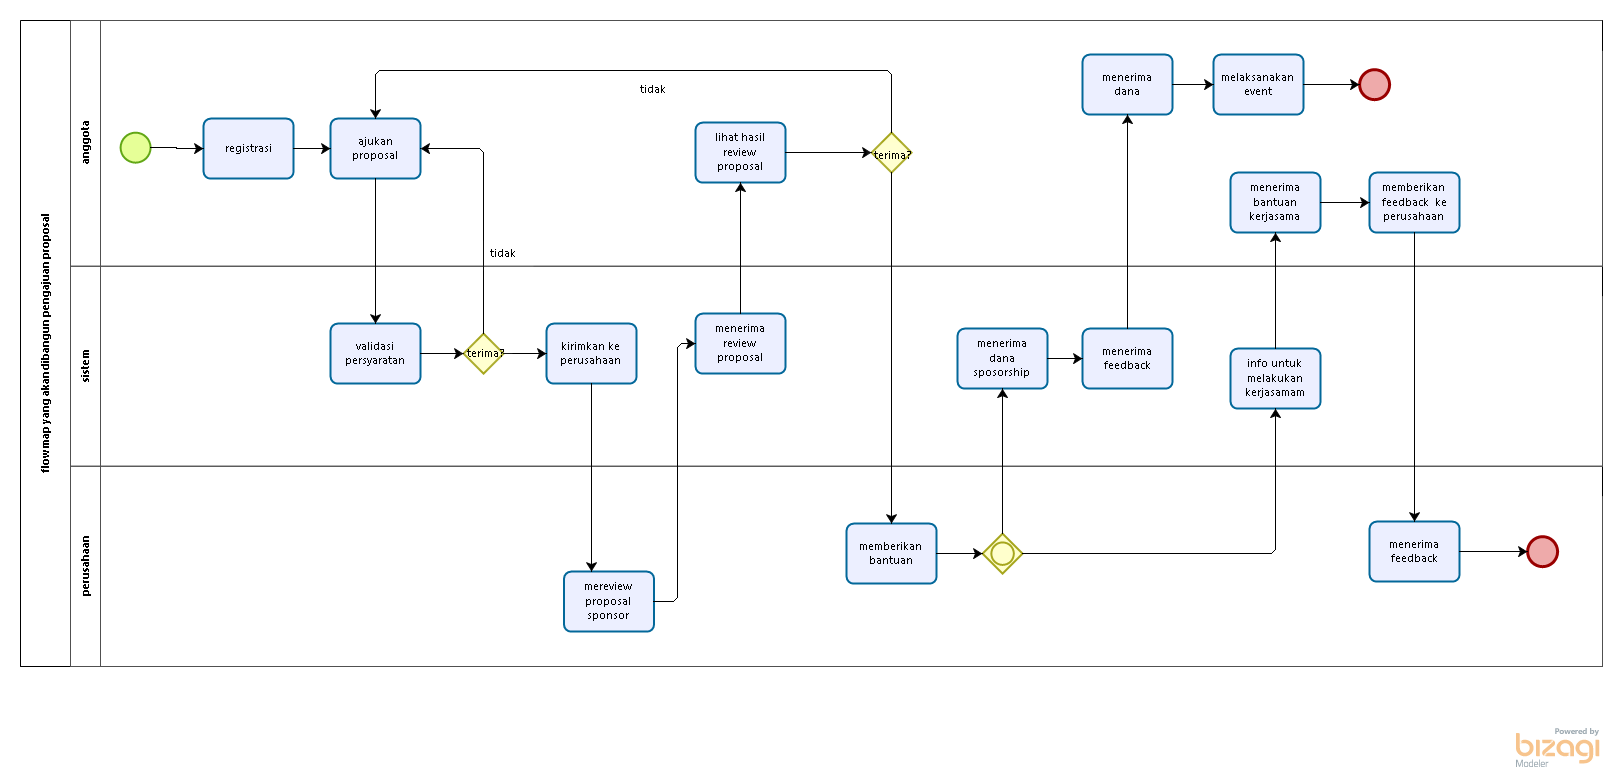
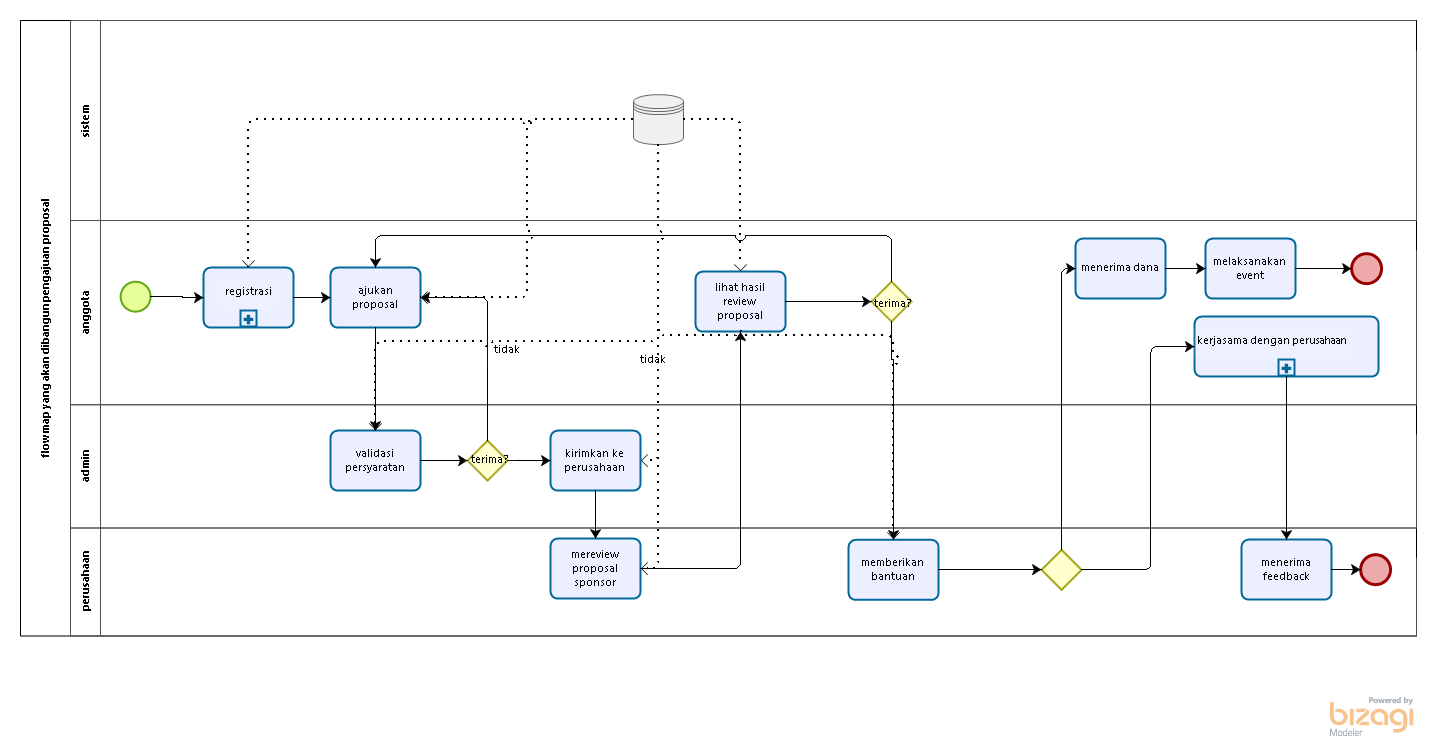
commit sodaraku

diff --git a/libs/js/json/configuration.json.js b/libs/js/json/configuration.json.js
@@ -1,1 +1,1 @@
-Bizagi.AppModel = {"personalized":false,"userLogoName":"\\libs\\img\\biz-ex-logo.png","bizagiUrl":"http://www.bizagi.com","productName":"Bizagi Modeler","modelName":"flowmap proses yang akan dibangun","publishDate":"11/21/2016 7:43:57 AM","pages":[{"id":"387a8af9-7a3a-44de-83a8-225b836771a6","name":"Diagram 1","version":"1.0","author":"gentu","image":"files\\diagrams\\Diagram_1.png","isSubprocessPage":false,"elements":[{"id":"cde52953-2956-4d07-aba3-8e478f4c84ff","name":"flowmap yang akan dibangun pengajuan proposal","elementImage":"files\\bpmnElements\\Participant.png","imageBounds":{"points":[{"x":20.0,"y":20.0}],"radius":0.0,"height":646.0,"width":50.0,"shape":"rect"},"elementType":"Participant","properties":[],"pageElements":[{"id":"ec4c4310-ce89-453f-9d37-87c7aa8a32fe","name":"Event","elementImage":"files\\bpmnElements\\NoneStart.png","imageBounds":{"points":[{"x":120.0,"y":132.0}],"radius":15.0,"height":30.0,"width":30.0,"shape":"circle"},"elementType":"NoneStart"},{"id":"9e509c86-1bab-4a95-b629-b56f2096fc51","name":"registrasi","elementImage":"files\\bpmnElements\\AbstractTask.png","imageBounds":{"points":[{"x":203.0,"y":118.0}],"radius":0.0,"height":60.0,"width":90.0,"shape":"rect"},"elementType":"AbstractTask","properties":[]},{"id":"448a5ef8-64fc-4acf-ab07-fa3c857338f4","name":"ajukan proposal","elementImage":"files\\bpmnElements\\AbstractTask.png","imageBounds":{"points":[{"x":330.0,"y":118.0}],"radius":0.0,"height":60.0,"width":90.0,"shape":"rect"},"elementType":"AbstractTask","properties":[]},{"id":"92528b22-68dd-4aa8-9336-0970370f5010","name":"validasi persyaratan ","elementImage":"files\\bpmnElements\\AbstractTask.png","imageBounds":{"points":[{"x":330.0,"y":323.0}],"radius":0.0,"height":60.0,"width":90.0,"shape":"rect"},"elementType":"AbstractTask","properties":[]},{"id":"62843e2d-9132-4c28-a3b5-57c490bd2336","name":"terima?","elementImage":"files\\bpmnElements\\ExclusiveGateway.png","imageBounds":{"points":[{"x":463.0,"y":333.0}],"radius":0.0,"height":40.0,"width":40.0,"shape":"poly"},"elementType":"ExclusiveGateway","properties":[],"pageElements":[{"name":"tidak","elementType":"SequenceFlow","properties":[]},{"name":"kirimkan ke perusahaan","elementType":"SequenceFlow","properties":[]}]},{"id":"8cb3f22f-34ab-4978-9421-076a330a6b16","name":"kirimkan ke perusahaan","elementImage":"files\\bpmnElements\\AbstractTask.png","imageBounds":{"points":[{"x":546.0,"y":323.0}],"radius":0.0,"height":60.0,"width":90.0,"shape":"rect"},"elementType":"AbstractTask","properties":[]},{"id":"26340f4c-524a-4a69-8a60-f1f2b97a1966","name":"mereview proposal sponsor ","elementImage":"files\\bpmnElements\\AbstractTask.png","imageBounds":{"points":[{"x":563.4,"y":571.0}],"radius":0.0,"height":60.0,"width":90.0,"shape":"rect"},"elementType":"AbstractTask","properties":[]},{"id":"c7b4fb59-57cb-436d-a5dc-e50aa3b9ed1f","name":"menerima review proposal","elementImage":"files\\bpmnElements\\AbstractTask.png","imageBounds":{"points":[{"x":695.0,"y":313.0}],"radius":0.0,"height":60.0,"width":90.0,"shape":"rect"},"elementType":"AbstractTask","properties":[]},{"id":"ebe8f85c-bce6-4be6-a7d5-0ed7ab79053f","name":"lihat hasil review proposal","elementImage":"files\\bpmnElements\\AbstractTask.png","imageBounds":{"points":[{"x":695.0,"y":122.0}],"radius":0.0,"height":60.0,"width":90.0,"shape":"rect"},"elementType":"AbstractTask","properties":[]},{"id":"7e82a033-dd97-4ae3-8e98-1e74558a550b","name":"terima?","elementImage":"files\\bpmnElements\\ExclusiveGateway.png","imageBounds":{"points":[{"x":871.0,"y":132.0}],"radius":0.0,"height":40.0,"width":40.0,"shape":"poly"},"elementType":"ExclusiveGateway","properties":[],"pageElements":[{"name":"tidak","elementType":"SequenceFlow","properties":[]},{"name":"memberikan bantuan","elementType":"SequenceFlow","properties":[]}]},{"id":"38c4776d-c18d-402f-9234-e9001001e618","name":"memberikan bantuan","elementImage":"files\\bpmnElements\\AbstractTask.png","imageBounds":{"points":[{"x":846.0,"y":523.0}],"radius":0.0,"height":60.0,"width":90.0,"shape":"rect"},"elementType":"AbstractTask","properties":[]},{"id":"ea685e7d-762f-4741-9202-49996e7dccd4","name":"Gateway","elementImage":"files\\bpmnElements\\InclusiveGateway.png","imageBounds":{"points":[{"x":982.0,"y":533.0}],"radius":0.0,"height":40.0,"width":40.0,"shape":"poly"},"elementType":"InclusiveGateway","properties":[],"pageElements":[{"name":"menerima dana sposorship","elementType":"SequenceFlow","properties":[]},{"name":"info untuk melakukan kerjasamam","elementType":"SequenceFlow","properties":[]}]},{"id":"bade56e8-0191-4ace-b328-85f419b38032","name":"menerima dana sposorship","elementImage":"files\\bpmnElements\\AbstractTask.png","imageBounds":{"points":[{"x":957.0,"y":328.0}],"radius":0.0,"height":60.0,"width":90.0,"shape":"rect"},"elementType":"AbstractTask","properties":[]},{"id":"c3a0d265-3e80-4862-95dd-4146ea6334ba","name":"menerima feedback ","elementImage":"files\\bpmnElements\\AbstractTask.png","imageBounds":{"points":[{"x":1082.0,"y":328.0}],"radius":0.0,"height":60.0,"width":90.0,"shape":"rect"},"elementType":"AbstractTask","properties":[]},{"id":"94c32ea4-5eef-4e13-a902-f50aa9fece12","name":"menerima dana","elementImage":"files\\bpmnElements\\AbstractTask.png","imageBounds":{"points":[{"x":1082.0,"y":54.0}],"radius":0.0,"height":60.0,"width":90.0,"shape":"rect"},"elementType":"AbstractTask","properties":[]},{"id":"3e30a410-62fd-4642-9cc1-bbadb7290501","name":"melaksanakan event","elementImage":"files\\bpmnElements\\AbstractTask.png","imageBounds":{"points":[{"x":1213.0,"y":54.0}],"radius":0.0,"height":60.0,"width":90.0,"shape":"rect"},"elementType":"AbstractTask","properties":[]},{"id":"a35ca725-93ac-4a25-ad2f-9606acc2321e","name":"Event","elementImage":"files\\bpmnElements\\NoneEnd.png","imageBounds":{"points":[{"x":1359.0,"y":69.0}],"radius":15.0,"height":30.0,"width":30.0,"shape":"circle"},"elementType":"NoneEnd"},{"id":"915ca9a3-8b9e-4570-bbb9-544bcf897cb9","name":"info untuk melakukan kerjasamam","elementImage":"files\\bpmnElements\\AbstractTask.png","imageBounds":{"points":[{"x":1230.0,"y":348.0}],"radius":0.0,"height":60.0,"width":90.0,"shape":"rect"},"elementType":"AbstractTask","properties":[]},{"id":"253b5cb9-770f-4db9-995c-06eb984babdf","name":"menerima bantuan kerjasama","elementImage":"files\\bpmnElements\\AbstractTask.png","imageBounds":{"points":[{"x":1230.0,"y":172.0}],"radius":0.0,"height":60.0,"width":90.0,"shape":"rect"},"elementType":"AbstractTask","properties":[]},{"id":"c83c5af3-3905-47f1-8819-b0d5e49423bb","name":"memberikan feedback  ke perusahaan","elementImage":"files\\bpmnElements\\AbstractTask.png","imageBounds":{"points":[{"x":1369.0,"y":172.0}],"radius":0.0,"height":60.0,"width":90.0,"shape":"rect"},"elementType":"AbstractTask","properties":[]},{"id":"24a4c256-4fbd-4e74-a211-4c7c12b7e720","name":"menerima feedback","elementImage":"files\\bpmnElements\\AbstractTask.png","imageBounds":{"points":[{"x":1369.0,"y":521.0}],"radius":0.0,"height":60.0,"width":90.0,"shape":"rect"},"elementType":"AbstractTask","properties":[]},{"id":"c2323422-e2ec-4cb6-897c-cb50e6631ef7","name":"Event","elementImage":"files\\bpmnElements\\NoneEnd.png","imageBounds":{"points":[{"x":1527.0,"y":536.0}],"radius":15.0,"height":30.0,"width":30.0,"shape":"circle"},"elementType":"NoneEnd"},{"id":"9b19114d-6c4d-41eb-94e5-4bc23b8dd305","name":"anggota ","elementImage":"files\\bpmnElements\\Lane.png","imageBounds":{"points":[{"x":70.0,"y":20.0}],"radius":0.0,"height":245.7,"width":30.0,"shape":"rect"},"elementType":"Lane"},{"id":"118933fe-b046-45a1-b4ab-b8d358238c36","name":"sistem","elementImage":"files\\bpmnElements\\Lane.png","imageBounds":{"points":[{"x":70.0,"y":265.7}],"radius":0.0,"height":200.0,"width":30.0,"shape":"rect"},"elementType":"Lane"},{"id":"a0f3806e-6fca-490a-9bbb-3665b06c6aa2","name":"perusahaan","elementImage":"files\\bpmnElements\\Lane.png","imageBounds":{"points":[{"x":70.0,"y":465.7}],"radius":0.0,"height":200.299988,"width":30.0,"shape":"rect"},"elementType":"Lane"}]}]}],"texts":{"tableOfContents":"Table of Contents","pageNumber":"Page","pageNumberLabelOf":"of","version":"Version","author":"Author","description":"Description","mainPool":"Main Process","mainPoolDescription":"Main Process Description","processDiagrams":"Process Diagrams","processElements":"Process Elements","elements":"Process Elements","defaultElementName":"Element","performers":"Performers","connectors":"Connectors","connector":"Connector","home":"Home","search":"Search","goToParentProcess":"<< Go to Parent Process","visitBizagi":"Visit bizagi.com","contains":"Contains {0} Sub-Processes","showAll":"Show all","fullScreen":"Full screen","zoomIn":"Zoom In","zoomOut":"Zoom Out","close":"Close","menu":"Menu: ","errorPage":"Error when visualizing page","process":"Process","subProcess":"Published Sub-Processes","contain":"Contains","checkAttributes":"Check attributes","checkOverview":"Check overview","unavailableResource":"Unavailable resource","localResource":"Resource can be accessed locally","performer":"Performer","linktoimage":"Link to Image","presentationAction":"Presentation Actions","searchGlobal":"Search all","searchLocal":"Search in this process","searchResults":"No Results Found","titlePage":"Start","emptyElement":"This element has not yet been documented","unsupported":"Your browser does not support content displayed by this page. <br> We recommend you upgrading your browser.","details":"Details","expand":"Expand","mainPoolProperties":"Main Process properties","cannotVisualize":"The page cannot be displayed","resourceNotFound":"The requested resource was not found:","applyTheme":"Applying new theme"},"searchMap":[{"containerId":"387a8af9-7a3a-44de-83a8-225b836771a6","containerName":"Diagram 1","isSubprocess":false,"elements":[{"id":"cde52953-2956-4d07-aba3-8e478f4c84ff","value":"flowmap yang akan dibangun pengajuan proposal"},{"id":"9b19114d-6c4d-41eb-94e5-4bc23b8dd305","value":"anggota "},{"id":"118933fe-b046-45a1-b4ab-b8d358238c36","value":"sistem"},{"id":"a0f3806e-6fca-490a-9bbb-3665b06c6aa2","value":"perusahaan"},{"id":"ec4c4310-ce89-453f-9d37-87c7aa8a32fe","value":""},{"id":"9e509c86-1bab-4a95-b629-b56f2096fc51","value":"registrasi"},{"id":"448a5ef8-64fc-4acf-ab07-fa3c857338f4","value":"ajukan proposal"},{"id":"92528b22-68dd-4aa8-9336-0970370f5010","value":"validasi persyaratan "},{"id":"62843e2d-9132-4c28-a3b5-57c490bd2336","value":"terima?"},{"id":"8cb3f22f-34ab-4978-9421-076a330a6b16","value":"kirimkan ke perusahaan"},{"id":"26340f4c-524a-4a69-8a60-f1f2b97a1966","value":"mereview proposal sponsor "},{"id":"c7b4fb59-57cb-436d-a5dc-e50aa3b9ed1f","value":"menerima review proposal"},{"id":"ebe8f85c-bce6-4be6-a7d5-0ed7ab79053f","value":"lihat hasil review proposal"},{"id":"7e82a033-dd97-4ae3-8e98-1e74558a550b","value":"terima?"},{"id":"38c4776d-c18d-402f-9234-e9001001e618","value":"memberikan bantuan"},{"id":"ea685e7d-762f-4741-9202-49996e7dccd4","value":""},{"id":"bade56e8-0191-4ace-b328-85f419b38032","value":"menerima dana sposorship"},{"id":"c3a0d265-3e80-4862-95dd-4146ea6334ba","value":"menerima feedback "},{"id":"94c32ea4-5eef-4e13-a902-f50aa9fece12","value":"menerima dana"},{"id":"3e30a410-62fd-4642-9cc1-bbadb7290501","value":"melaksanakan event"},{"id":"a35ca725-93ac-4a25-ad2f-9606acc2321e","value":""},{"id":"915ca9a3-8b9e-4570-bbb9-544bcf897cb9","value":"info untuk melakukan kerjasamam"},{"id":"253b5cb9-770f-4db9-995c-06eb984babdf","value":"menerima bantuan kerjasama"},{"id":"c83c5af3-3905-47f1-8819-b0d5e49423bb","value":"memberikan feedback  ke perusahaan"},{"id":"24a4c256-4fbd-4e74-a211-4c7c12b7e720","value":"menerima feedback"},{"id":"c2323422-e2ec-4cb6-897c-cb50e6631ef7","value":""}]}]}
+Bizagi.AppModel = {"personalized":false,"userLogoName":"\\libs\\img\\biz-ex-logo.png","bizagiUrl":"http://www.bizagi.com","productName":"Bizagi Modeler","modelName":"proses yang akan dibangun","publishDate":"11/25/2016 10:07:00 AM","pages":[{"id":"ccbdcc8c-2812-4323-838a-d069b4d89ad2","name":"Diagram 1","version":"1.0","author":"gentu","image":"files\\diagrams\\Diagram_1.png","isSubprocessPage":false,"elements":[{"id":"d221f7c9-1383-4faa-83ac-d100b7008c96","name":"flowmap yang akan dibangun pengajuan proposal","elementImage":"files\\bpmnElements\\Participant.png","imageBounds":{"points":[{"x":20.0,"y":20.0}],"radius":0.0,"height":615.4,"width":50.0,"shape":"rect"},"elementType":"Participant","properties":[],"pageElements":[{"id":"f5815bbd-9054-4268-a4ca-d92db74e2088","name":"Event","elementImage":"files\\bpmnElements\\NoneStart.png","imageBounds":{"points":[{"x":120.0,"y":281.0}],"radius":15.0,"height":30.0,"width":30.0,"shape":"circle"},"elementType":"NoneStart"},{"id":"4c76ea07-1749-4494-b9e3-4e2daeab43e0","name":"registrasi","elementImage":"files\\bpmnElements\\SubProcess.png","imageBounds":{"points":[{"x":203.0,"y":267.0}],"radius":0.0,"height":60.0,"width":90.0,"shape":"rect"},"elementType":"SubProcess","properties":[]},{"id":"c2900cbd-3fdd-4a3c-ac1d-0613aff644ca","name":"ajukan proposal","elementImage":"files\\bpmnElements\\AbstractTask.png","imageBounds":{"points":[{"x":330.0,"y":267.0}],"radius":0.0,"height":60.0,"width":90.0,"shape":"rect"},"elementType":"AbstractTask","properties":[]},{"id":"aff98863-e146-4973-ad99-9f80bde32b73","name":"validasi persyaratan ","elementImage":"files\\bpmnElements\\AbstractTask.png","imageBounds":{"points":[{"x":330.0,"y":430.0}],"radius":0.0,"height":60.0,"width":90.0,"shape":"rect"},"elementType":"AbstractTask","properties":[]},{"id":"8ef784d7-2e91-4524-8a19-76008c755ad7","name":"terima?","elementImage":"files\\bpmnElements\\ExclusiveGateway.png","imageBounds":{"points":[{"x":467.0,"y":440.0}],"radius":0.0,"height":40.0,"width":40.0,"shape":"poly"},"elementType":"ExclusiveGateway","properties":[],"pageElements":[{"name":"kirimkan ke perusahaan","elementType":"SequenceFlow","properties":[]},{"name":"tidak","elementType":"SequenceFlow","properties":[]}]},{"id":"91461c29-59bf-4664-b06f-9466a821db04","name":"kirimkan ke perusahaan","elementImage":"files\\bpmnElements\\AbstractTask.png","imageBounds":{"points":[{"x":550.0,"y":430.0}],"radius":0.0,"height":60.0,"width":90.0,"shape":"rect"},"elementType":"AbstractTask","properties":[]},{"id":"71c2cfa4-aa8f-40c8-b830-941e57e64ce4","name":"mereview proposal sponsor ","elementImage":"files\\bpmnElements\\AbstractTask.png","imageBounds":{"points":[{"x":550.0,"y":538.0}],"radius":0.0,"height":60.0,"width":90.0,"shape":"rect"},"elementType":"AbstractTask","properties":[]},{"id":"d4457ec7-d47f-40fd-86f9-576888cf2c2c","name":"lihat hasil review proposal","elementImage":"files\\bpmnElements\\AbstractTask.png","imageBounds":{"points":[{"x":695.0,"y":271.0}],"radius":0.0,"height":60.0,"width":90.0,"shape":"rect"},"elementType":"AbstractTask","properties":[]},{"id":"0a16fcf8-24b4-4159-99c9-e77eaedc0ff8","name":"terima?","elementImage":"files\\bpmnElements\\ExclusiveGateway.png","imageBounds":{"points":[{"x":871.0,"y":281.0}],"radius":0.0,"height":40.0,"width":40.0,"shape":"poly"},"elementType":"ExclusiveGateway","properties":[],"pageElements":[{"name":"tidak","elementType":"SequenceFlow","properties":[]},{"name":"memberikan bantuan","elementType":"SequenceFlow","properties":[]}]},{"id":"f902b784-f0eb-4994-98af-d829011ffb8d","name":"memberikan bantuan","elementImage":"files\\bpmnElements\\AbstractTask.png","imageBounds":{"points":[{"x":848.0,"y":539.2}],"radius":0.0,"height":60.0,"width":90.0,"shape":"rect"},"elementType":"AbstractTask","properties":[]},{"id":"5bc10d08-84bd-40b3-ac83-a865f2870e35","name":"Gateway","elementImage":"files\\bpmnElements\\ExclusiveGateway.png","imageBounds":{"points":[{"x":1041.0,"y":549.2}],"radius":0.0,"height":40.0,"width":40.0,"shape":"poly"},"elementType":"ExclusiveGateway","properties":[],"pageElements":[{"name":"menerima dana","elementType":"SequenceFlow","properties":[]},{"name":"kerjasama dengan perusahaan","elementType":"SequenceFlow","properties":[]}]},{"id":"20696b92-e2d2-474a-951a-129fce20e9e7","name":"menerima dana","elementImage":"files\\bpmnElements\\AbstractTask.png","imageBounds":{"points":[{"x":1075.0,"y":238.0}],"radius":0.0,"height":60.0,"width":90.0,"shape":"rect"},"elementType":"AbstractTask","properties":[]},{"id":"68ab0dcc-9faa-4290-9ddc-e3b5fb5454ef","name":"melaksanakan event","elementImage":"files\\bpmnElements\\AbstractTask.png","imageBounds":{"points":[{"x":1205.0,"y":238.0}],"radius":0.0,"height":60.0,"width":90.0,"shape":"rect"},"elementType":"AbstractTask","properties":[]},{"id":"1dec5466-b621-4356-a992-5da8303e9713","name":"Event","elementImage":"files\\bpmnElements\\NoneEnd.png","imageBounds":{"points":[{"x":1351.0,"y":253.0}],"radius":15.0,"height":30.0,"width":30.0,"shape":"circle"},"elementType":"NoneEnd"},{"id":"035f1d31-4dc2-46e0-8cb2-3c6767b49a89","name":"kerjasama dengan perusahaan","elementImage":"files\\bpmnElements\\SubProcess.png","imageBounds":{"points":[{"x":1194.0,"y":316.0}],"radius":0.0,"height":60.0,"width":184.0,"shape":"rect"},"elementType":"SubProcess","properties":[]},{"id":"bb2bc85e-6ddf-4f32-ac74-ba64b2f39a30","name":"menerima feedback","elementImage":"files\\bpmnElements\\AbstractTask.png","imageBounds":{"points":[{"x":1241.0,"y":539.0}],"radius":0.0,"height":60.0,"width":90.0,"shape":"rect"},"elementType":"AbstractTask","properties":[]},{"id":"996a6397-7c2c-4e59-a517-6f894e1cdfd9","name":"Event","elementImage":"files\\bpmnElements\\NoneEnd.png","imageBounds":{"points":[{"x":1360.0,"y":554.0}],"radius":15.0,"height":30.0,"width":30.0,"shape":"circle"},"elementType":"NoneEnd"},{"id":"72628562-e546-4f04-ab51-ed2199c15df9","name":"DataStore","elementImage":"files\\bpmnElements\\DataStoreReference.png","imageBounds":{"points":[{"x":633.0,"y":94.0}],"radius":0.0,"height":50.0,"width":50.0,"shape":"rect"},"elementType":"DataStoreReference","properties":[{"id":"DataStoreState","name":"State","value":"","type":"text"}]},{"id":"75216cc1-f1e2-42f4-ba76-52b36964aa93","name":"sistem","elementImage":"files\\bpmnElements\\Lane.png","imageBounds":{"points":[{"x":70.0,"y":20.0}],"radius":0.0,"height":200.0,"width":30.0,"shape":"rect"},"elementType":"Lane"},{"id":"4a94f055-e997-415c-b1f7-d94a71d7ec8f","name":"anggota ","elementImage":"files\\bpmnElements\\Lane.png","imageBounds":{"points":[{"x":70.0,"y":220.0}],"radius":0.0,"height":184.1,"width":30.0,"shape":"rect"},"elementType":"Lane"},{"id":"e362495b-aa4d-43ad-aa13-11e6688c11c3","name":"admin","elementImage":"files\\bpmnElements\\Lane.png","imageBounds":{"points":[{"x":70.0,"y":404.100037}],"radius":0.0,"height":123.3,"width":30.0,"shape":"rect"},"elementType":"Lane"},{"id":"d7abf70d-86e8-4dde-a1f6-600332a8d6a7","name":"perusahaan","elementImage":"files\\bpmnElements\\Lane.png","imageBounds":{"points":[{"x":70.0,"y":527.4}],"radius":0.0,"height":108.0,"width":30.0,"shape":"rect"},"elementType":"Lane"}]}],"subPages":[]}],"texts":{"tableOfContents":"Table of Contents","pageNumber":"Page","pageNumberLabelOf":"of","version":"Version","author":"Author","description":"Description","mainPool":"Main Process","mainPoolDescription":"Main Process Description","processDiagrams":"Process Diagrams","processElements":"Process Elements","elements":"Process Elements","defaultElementName":"Element","performers":"Performers","connectors":"Connectors","connector":"Connector","home":"Home","search":"Search","goToParentProcess":"<< Go to Parent Process","visitBizagi":"Visit bizagi.com","contains":"Contains {0} Sub-Processes","showAll":"Show all","fullScreen":"Full screen","zoomIn":"Zoom In","zoomOut":"Zoom Out","close":"Close","menu":"Menu: ","errorPage":"Error when visualizing page","process":"Process","subProcess":"Published Sub-Processes","contain":"Contains","checkAttributes":"Check attributes","checkOverview":"Check overview","unavailableResource":"Unavailable resource","localResource":"Resource can be accessed locally","performer":"Performer","linktoimage":"Link to Image","presentationAction":"Presentation Actions","searchGlobal":"Search all","searchLocal":"Search in this process","searchResults":"No Results Found","titlePage":"Start","emptyElement":"This element has not yet been documented","unsupported":"Your browser does not support content displayed by this page. <br> We recommend you upgrading your browser.","details":"Details","expand":"Expand","mainPoolProperties":"Main Process properties","cannotVisualize":"The page cannot be displayed","resourceNotFound":"The requested resource was not found:","applyTheme":"Applying new theme"},"searchMap":[{"containerId":"ccbdcc8c-2812-4323-838a-d069b4d89ad2","containerName":"Diagram 1","isSubprocess":false,"elements":[{"id":"d221f7c9-1383-4faa-83ac-d100b7008c96","value":"flowmap yang akan dibangun pengajuan proposal"},{"id":"75216cc1-f1e2-42f4-ba76-52b36964aa93","value":"sistem"},{"id":"4a94f055-e997-415c-b1f7-d94a71d7ec8f","value":"anggota "},{"id":"e362495b-aa4d-43ad-aa13-11e6688c11c3","value":"admin"},{"id":"d7abf70d-86e8-4dde-a1f6-600332a8d6a7","value":"perusahaan"},{"id":"f5815bbd-9054-4268-a4ca-d92db74e2088","value":""},{"id":"c2900cbd-3fdd-4a3c-ac1d-0613aff644ca","value":"ajukan proposal"},{"id":"aff98863-e146-4973-ad99-9f80bde32b73","value":"validasi persyaratan "},{"id":"8ef784d7-2e91-4524-8a19-76008c755ad7","value":"terima?"},{"id":"91461c29-59bf-4664-b06f-9466a821db04","value":"kirimkan ke perusahaan"},{"id":"71c2cfa4-aa8f-40c8-b830-941e57e64ce4","value":"mereview proposal sponsor "},{"id":"d4457ec7-d47f-40fd-86f9-576888cf2c2c","value":"lihat hasil review proposal"},{"id":"0a16fcf8-24b4-4159-99c9-e77eaedc0ff8","value":"terima?"},{"id":"f902b784-f0eb-4994-98af-d829011ffb8d","value":"memberikan bantuan"},{"id":"20696b92-e2d2-474a-951a-129fce20e9e7","value":"menerima dana"},{"id":"68ab0dcc-9faa-4290-9ddc-e3b5fb5454ef","value":"melaksanakan event"},{"id":"1dec5466-b621-4356-a992-5da8303e9713","value":""},{"id":"bb2bc85e-6ddf-4f32-ac74-ba64b2f39a30","value":"menerima feedback"},{"id":"996a6397-7c2c-4e59-a517-6f894e1cdfd9","value":""},{"id":"4c76ea07-1749-4494-b9e3-4e2daeab43e0","value":"registrasi"},{"id":"5bc10d08-84bd-40b3-ac83-a865f2870e35","value":""},{"id":"035f1d31-4dc2-46e0-8cb2-3c6767b49a89","value":"kerjasama dengan perusahaan"},{"id":"72628562-e546-4f04-ab51-ed2199c15df9","value":""},{"id":"a1e93b18-f0fe-46d3-afa6-c7a811f14499"},{"id":"06af7b1b-4ed0-410c-9846-a65ea9a72587"},{"id":"862f9754-b3a4-4f44-9834-f80b377d5458"},{"id":"4a813d0a-f3ed-4cfe-b77e-e22aa5a822c4"},{"id":"0b853096-5039-4933-92c4-6924eeb35abf"},{"id":"1ea6541b-1b36-4f78-8747-92f7d7e57ec2"},{"id":"cd90384a-cb5e-4984-9ec9-544618294c82"}]},{"containerId":"4c76ea07-1749-4494-b9e3-4e2daeab43e0","containerName":"registrasi","isSubprocess":true,"elements":[{"id":"27fa22e4-010e-4abc-98a9-e93652f9b130","value":""},{"id":"f792bca0-3980-422a-bf84-cb8c926d6366","value":"inputkan  identitas"},{"id":"cfd3947c-b86e-43fb-be6e-81612e58b73d","value":"validasi"},{"id":"e99012bb-dabc-470d-a93f-f6e011dce32c","value":""},{"id":"3b02b57b-2e41-434b-ba54-88fce0476b83","value":"login"},{"id":"f8ace995-6860-4fcd-a45e-f162ac9ee00c","value":""},{"id":"47e6ec1f-4425-42b9-9729-6b2bf3893c45","value":"menu utama"},{"id":"656d0e94-a979-4d34-adb1-021b3dbf32cc","value":""}]},{"containerId":"035f1d31-4dc2-46e0-8cb2-3c6767b49a89","containerName":"kerjasama dengan perusahaan","isSubprocess":true,"elements":[{"id":"cfcf6b62-9e9d-4db1-813c-8eda5b4ebd90","value":""},{"id":"3eaa47d7-7342-480c-9ace-6fabbddb606f","value":"menerima kerjasama dedngan perusahaan"},{"id":"0c592bae-6988-48e8-8358-1a2e35fdfb66","value":"melakukan kerjasama pada event"},{"id":"a1edad77-1b29-45e5-97c2-da77976fce86","value":"memberikan feedback ke perusahaan"},{"id":"b5a6bc22-c1a4-45a0-a99d-05c1772341a6","value":""}]}]}
